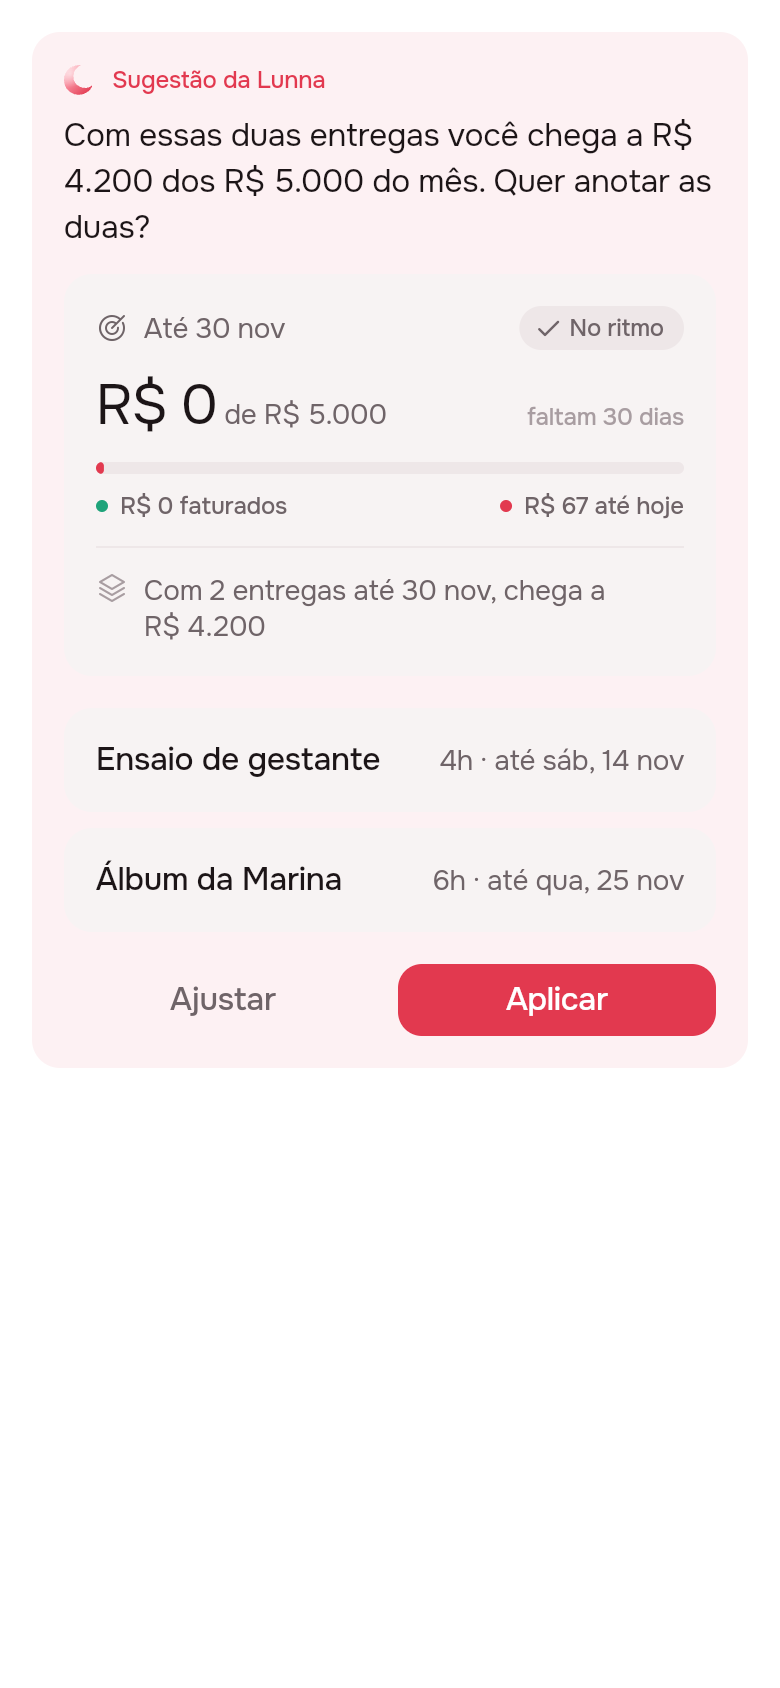
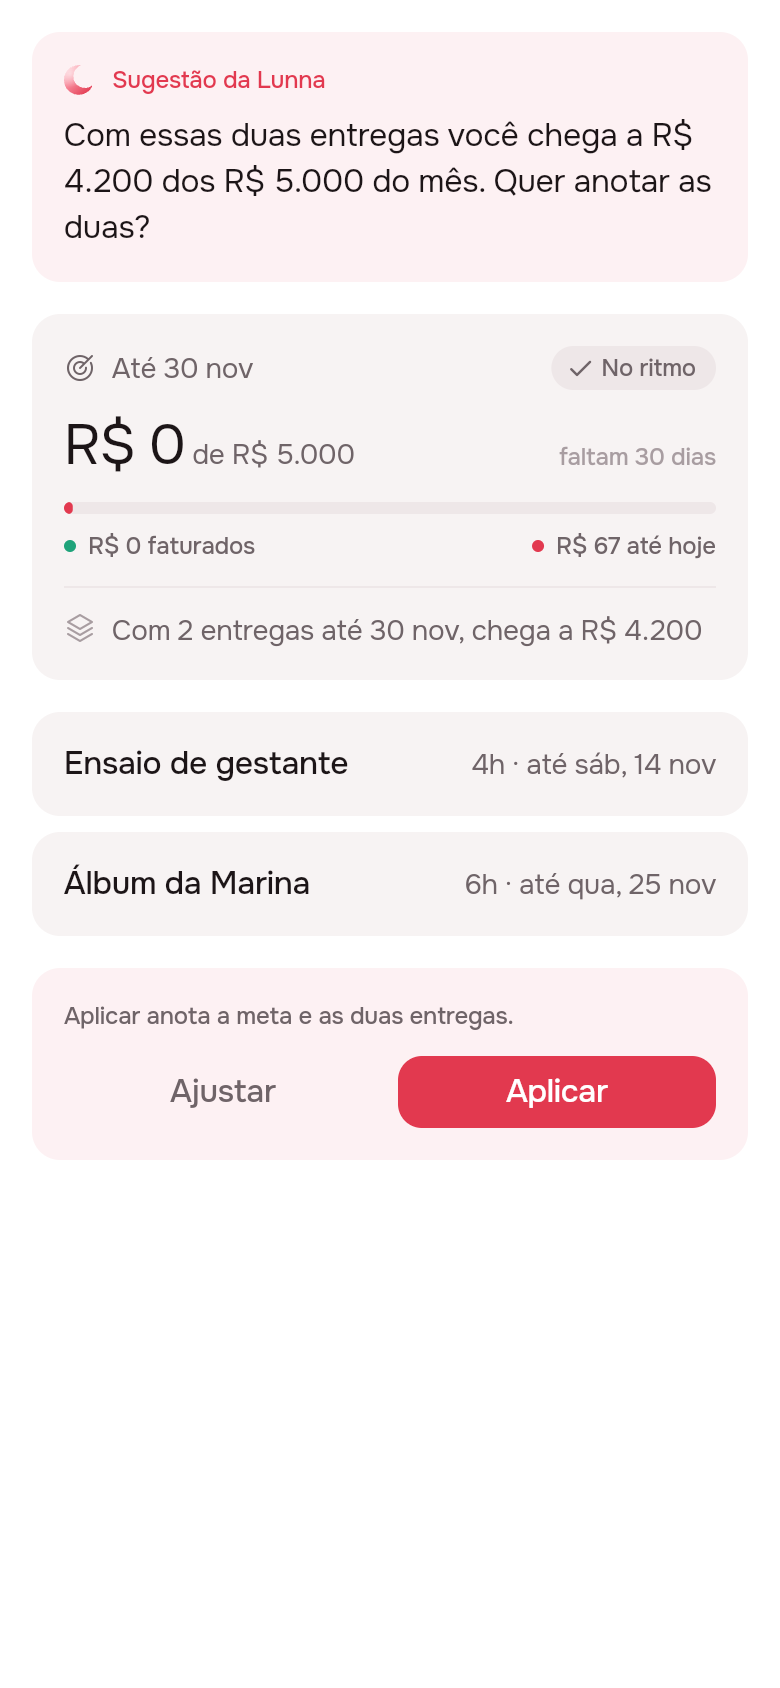
research(#69): fix · Agentic suggestions

diff --git a/product/research/2026-10-29-agentic-suggestions/code/suggestions_rfc_preview.dart b/product/research/2026-10-29-agentic-suggestions/code/suggestions_rfc_preview.dart
@@ -6,8 +6,10 @@ import 'package:l10n/l10n.dart';
 /// The research RFC's two pictures of one onboarding plan (a goal and two
 /// deliveries): `?s=1` as the plan card draws it today, `?s=2` drawn by
 /// the widgets the tabs draw once it is applied; `?s=3` the suggestion as
-/// Feed would hold it, the preview first and Ajustar / Aplicar under it;
-/// `?s=4` the welcome a new person finds. Nothing ships from here.
+/// Feed would hold it, in three parts: a header card (the label and the
+/// caption), the preview on the page's own background, and a card with
+/// Ajustar / Aplicar; `?s=4` the welcome a new person finds, cut the same
+/// way. Nothing ships from here.
 void main() => runApp(const _App());
 
 final DateTime _now = DateTime(2026, 10, 31, 10);
@@ -32,8 +34,8 @@ class _App extends StatelessWidget {
           children: switch (_scene) {
             '1' => _today(),
             '2' => _preview(),
-            '3' => [_offer()],
-            _ => [_welcome()],
+            '3' => _offer(),
+            _ => _welcome(),
           },
         ),
       ),
@@ -106,9 +108,12 @@ class _App extends StatelessWidget {
     ],
   ];
 
-  /// The agent's wash, its mark and its label, around [children].
-  Widget _wash(List<Widget> children) => Builder(
+  /// The agent's wash around [children]: the header (with its mark and
+  /// label) or the actions' card. The preview between them is never in it,
+  /// so the real widgets keep the contrast they have on their tabs.
+  Widget _wash(List<Widget> children, {bool label = true}) => Builder(
     builder: (context) => Container(
+      width: double.infinity,
       padding: const EdgeInsets.all(AppSpacing.s4),
       decoration: BoxDecoration(
         color: AppColors.accentWash,
@@ -117,61 +122,78 @@ class _App extends StatelessWidget {
       child: Column(
         crossAxisAlignment: CrossAxisAlignment.start,
         children: [
-          Row(
-            children: [
-              const AppIcon(iconData: AppIcons.agent, size: AppSpacing.s4),
-              const SizedBox(width: AppSpacing.s2),
-              Text(
-                context.l10n.agentSuggestionLabel(AppBrand.id),
-                style: AppTypography.caption.copyWith(color: AppColors.accent),
-              ),
-            ],
-          ),
-          const SizedBox(height: AppSpacing.s2),
+          if (label) ...[
+            Row(
+              children: [
+                const AppIcon(iconData: AppIcons.agent, size: AppSpacing.s4),
+                const SizedBox(width: AppSpacing.s2),
+                Text(
+                  context.l10n.agentSuggestionLabel(AppBrand.id),
+                  style: AppTypography.caption.copyWith(
+                    color: AppColors.accent,
+                  ),
+                ),
+              ],
+            ),
+            const SizedBox(height: AppSpacing.s2),
+          ],
           ...children,
         ],
       ),
     ),
   );
 
-  Widget _offer() => _wash([
-    Text(
-      'Com essas duas entregas você chega a R\$ 4.200 dos R\$ 5.000 do mês. '
-      'Quer anotar as duas?',
-      style: AppTypography.body,
-    ),
-    const SizedBox(height: AppSpacing.s3),
+  /// Header, the preview on the page, then the actions' card.
+  List<Widget> _offer() => [
+    _wash([
+      Text(
+        'Com essas duas entregas você chega a R\$ 4.200 dos R\$ 5.000 do '
+        'mês. Quer anotar as duas?',
+        style: AppTypography.body,
+      ),
+    ]),
+    const SizedBox(height: AppSpacing.s4),
     ..._preview(),
     const SizedBox(height: AppSpacing.s2),
-    Row(
-      children: [
-        Expanded(
-          child: AppButton.text(
-            text: 'Ajustar',
-            color: AppColors.ink,
-            expand: true,
-            onPressed: () {},
+    _wash(label: false, [
+      Text(
+        'Aplicar anota a meta e as duas entregas.',
+        style: AppTypography.caption.copyWith(color: AppColors.ink2),
+      ),
+      const SizedBox(height: AppSpacing.s3),
+      Row(
+        children: [
+          Expanded(
+            child: AppButton.text(
+              text: 'Ajustar',
+              color: AppColors.ink,
+              expand: true,
+              onPressed: () {},
+            ),
           ),
-        ),
-        const SizedBox(width: AppSpacing.s2),
-        Expanded(
-          child: AppButton(text: 'Aplicar', expand: true, onPressed: () {}),
-        ),
-      ],
-    ),
-  ]);
+          const SizedBox(width: AppSpacing.s2),
+          Expanded(
+            child: AppButton(text: 'Aplicar', expand: true, onPressed: () {}),
+          ),
+        ],
+      ),
+    ]),
+  ];
 
   /// No Work Quality on screen: the levels are the server's, and the
-  /// welcome only asks the first one's question.
-  Widget _welcome() => _wash([
-    Text(
-      'Oi! Eu sou a Lunna. Vou te ajudar a montar o seu mês, um passo de '
-      'cada vez. Começando pelo objetivo:',
-      style: AppTypography.body,
-    ),
-    const SizedBox(height: AppSpacing.s3),
-    Text('Quanto você quer faturar este mês?', style: AppTypography.body),
-    const SizedBox(height: AppSpacing.s2),
+  /// welcome only asks the first one's question. Header (the words and the
+  /// question), then the amounts on the page; it has no plan, so no actions' card.
+  List<Widget> _welcome() => [
+    _wash([
+      Text(
+        'Oi! Eu sou a Lunna. Vou te ajudar a montar o seu mês, um passo de '
+        'cada vez. Começando pelo objetivo:',
+        style: AppTypography.body,
+      ),
+      const SizedBox(height: AppSpacing.s3),
+      Text('Quanto você quer faturar este mês?', style: AppTypography.body),
+    ]),
+    const SizedBox(height: AppSpacing.s4),
     Wrap(
       spacing: AppSpacing.s2,
       runSpacing: AppSpacing.s2,
@@ -184,5 +206,5 @@ class _App extends StatelessWidget {
           ),
       ],
     ),
-  ]);
+  ];
 }

diff --git a/product/research/2026-10-29-agentic-suggestions/README.md b/product/research/2026-10-29-agentic-suggestions/README.md
@@ -1,6 +1,6 @@
 # A suggestion is a turn the agent asks itself, about Work Quality
 
-2026-10-29 · RFC · draft, review 2 answered (phases 1–3; deep-research pass not run) · server agent, Feed, notifications, agent package · [issue #69](https://github.com/pietroid/lunna/issues/69), after [#67](https://github.com/pietroid/lunna/issues/67)
+2026-10-29 · RFC · draft, review 3 answered (phases 1–3; deep-research pass not run) · server agent, Feed, notifications, agent package · [issue #69](https://github.com/pietroid/lunna/issues/69), after [#67](https://github.com/pietroid/lunna/issues/67)
 
 ## Code picks the topic; the model writes the turn and its hour
 
@@ -136,22 +136,28 @@ Left: the plan card today, with three lines of text. Right: the same plan drawn 
 
 > **Q:** Ajustar and Aplicar will also come after the rendered preview?
 >
-> **A:** Yes: caption, then the preview, then Ajustar and Aplicar at its foot, on Feed and in the chat alike ([slide](#ajustar-and-aplicar-sit-under-the-preview)). The buttons act on what was just drawn.
+> **A:** Yes: caption, then the preview, then Ajustar and Aplicar at its foot, on Feed and in the chat alike ([slide](#the-suggestion-is-three-parts-header-preview-actions)). The buttons act on what was just drawn.
 
-## Ajustar and Aplicar sit under the preview
+## The suggestion is three parts: header, preview, actions
 
-![The suggestion on Feed: caption, GoalCard and two ArtifactRows, then Ajustar and Aplicar](img/offer-then-buttons.png)
+![The suggestion on Feed: a rose header with the caption, GoalCard and two ArtifactRows on the page, then a rose card with Ajustar and Aplicar](img/offer-then-buttons.png)
 
-- The order is the one people read in: what the agent says, what it would look like, what to do about it ([code](code/suggestions_rfc_preview.dart), `?s=3`).
-- The preview replaces the plan's text lines for what it can draw. A change it can't draw (a task moved to an hour) keeps its line, between the preview and the buttons.
-- **Ajustar** opens the chat on this turn; **Aplicar** makes the plan through the same path as the plan card. That's two buttons, not three: Ajustar takes the place of a separate Conversar.
+- **Header card** (the rose wash): the label and the caption, the agent's words only.
+- **The preview on the page's own background**, out of any card: `GoalCard` and `ArtifactRow` keep the contrast they have on their tabs ([code](code/suggestions_rfc_preview.dart), `?s=3`).
+- **Actions card** (the rose wash again): the lines the preview can't draw (a task moved to an hour; here "Aplicar anota a meta e as duas entregas"), then **Ajustar** and **Aplicar**.
+- The same three parts in the chat: the A2UI surface gets a header, a body and an actions part, so `answer.ts` lays them out once for both places.
+- Two buttons, not three: Ajustar opens the chat on this turn and takes the place of a separate Conversar.
+
+> **Note:** The suggestion card generated by GenUI is a single card with everything inside. The first card should be a header, then cut to the natural interface, and then cut to a card below with the CTAs, and possibly other suggestions below. So it's two cards and the interface in a white background in between. The way it is now is ugly, because the previewed goal is inside the rose card and there is no good contrast.
+>
+> **A:** Redrawn that way (picture above): a header card, the goal and the deliveries on white, and a card with the actions. The welcome is cut the same way: its words and question in the header, the amounts on the page ([slide](#a-new-person-starts-on-a-welcome-that-never-expires)). Below the actions card is where a second suggestion would stack, as the same three parts; Feed draws one at a time for now (see *Decided unattended*).
 
 ## A new person starts on a welcome that never expires
 
-![The welcome: a greeting, the first question and four amounts](img/welcome.png)
+![The welcome: a rose header with the greeting and the first question, then four amounts on the page](img/welcome.png)
 
 - Whoever has **never had a suggestion** gets this one ([code](code/suggestions_rfc_preview.dart), `?s=4`). It is fixed copy in `app_pt.arb`, so it costs no model call, and it never expires (`next_at` is null).
-- It says what Lunna does in one line and asks the first level's question, with amounts to tap. **It shows no levels**: Work Quality stays the server's.
+- It says what Lunna does in one line and asks the first level's question in its header; the amounts to tap sit on the page under it, as a preview would. It has no plan, so no actions card. **It shows no levels**: Work Quality stays the server's.
 - An amount opens the chat with it as the first message ("Quero faturar R$ 5.000 este mês"), which is an ordinary turn. From the answer on, `next_at` runs as for everyone else.
 - ✕ puts it away for 24 h. After that comes the first generated suggestion, which is about level 1 anyway.
 
@@ -243,12 +249,13 @@ flowchart TD
 | The rule "no timer touches Postgres" (AGENTS.md) | allow one-shots at an hour someone was told to look / keep it | **allow one-shots**, never periodic (**decided** with the timer) | keeping it means on read only |
 | A new person | fixed welcome, never expires / a model turn | **fixed welcome**, no levels drawn (review 2) | a model call for the same words every time |
 | Previews | real widgets in a `preview` block / richer plan lines | **real widgets** | plain lines hide the shortfall |
+| The card's shape | header card, preview on the page, actions card / one card around all | **three parts** (**decided**, review 3) | the preview loses its contrast inside the wash |
 | Routines for the agent | `new_routine`, `edit_routine`, `set_work_day` / none | **add them** | level 6 is reached by hand only |
 | Goal model for the golden scenario | money only / open `count` goals / free-text goal | **ask you** (below) | — |
 
 ## Decided unattended
 
-- **Phase 4 (deep research) not run**: neither review asked for it. The Horvitz paper didn't extract, so its three regions (act, ask, wait) come from course summaries and are unverified.
+- **Phase 4 (deep research) not run**: no review asked for it. The Horvitz paper didn't extract, so its three regions (act, ask, wait) come from course summaries and are unverified.
 - **Level order:** routine after work, not before. It's one line in `ladder.mjs` to swap.
 - **The hourly scan became a timer per person**, because it does the same job for 7× fewer Neon hours. The scan stays in the table if you'd rather keep it.
 
@@ -260,6 +267,8 @@ flowchart TD
 - **Conversar became Ajustar**, so the card has two buttons under the preview. Ajustar already opens the chat on the plan card.
 - **✕** puts a suggestion away until its `next_at` (the welcome: 24 h). That answers #67's open question.
 - **"A list of users"** in the issue is read as "a list of deliveries" (clients as deliveries).
+- **Other suggestions below** (review 3): the space under the actions card takes them, each as its own three parts, but Feed draws **one** at a time, as Chen et al. found more frequent suggestions halve preference. Drawing a second is one list on Feed if you want it.
+- **The welcome's question moved into its header**, so all the agent's words are in one card and the page holds only what to tap.
 - **Open questions:** is your wife's goal an amount to bill (today's only goal), or something else, which would mean opening `count` goals? And should "based on her cycle" mean phases the routine knows about, or is it enough for the agent to place blocks by day?
 
 ## Go deeper
